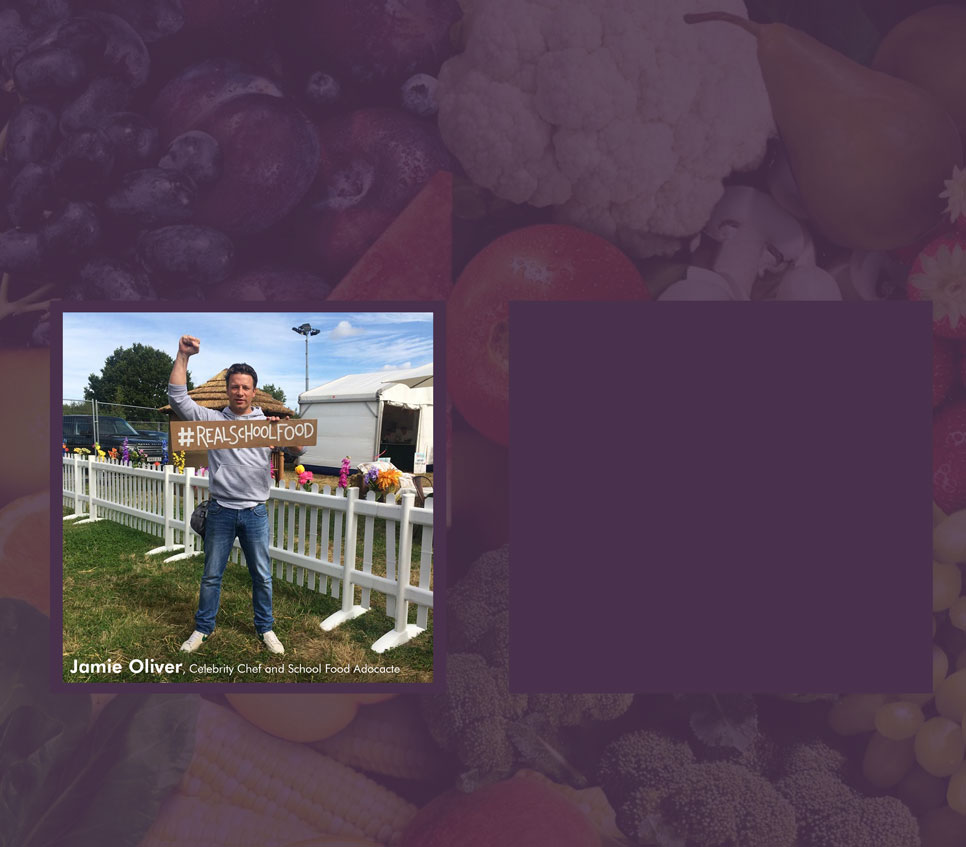
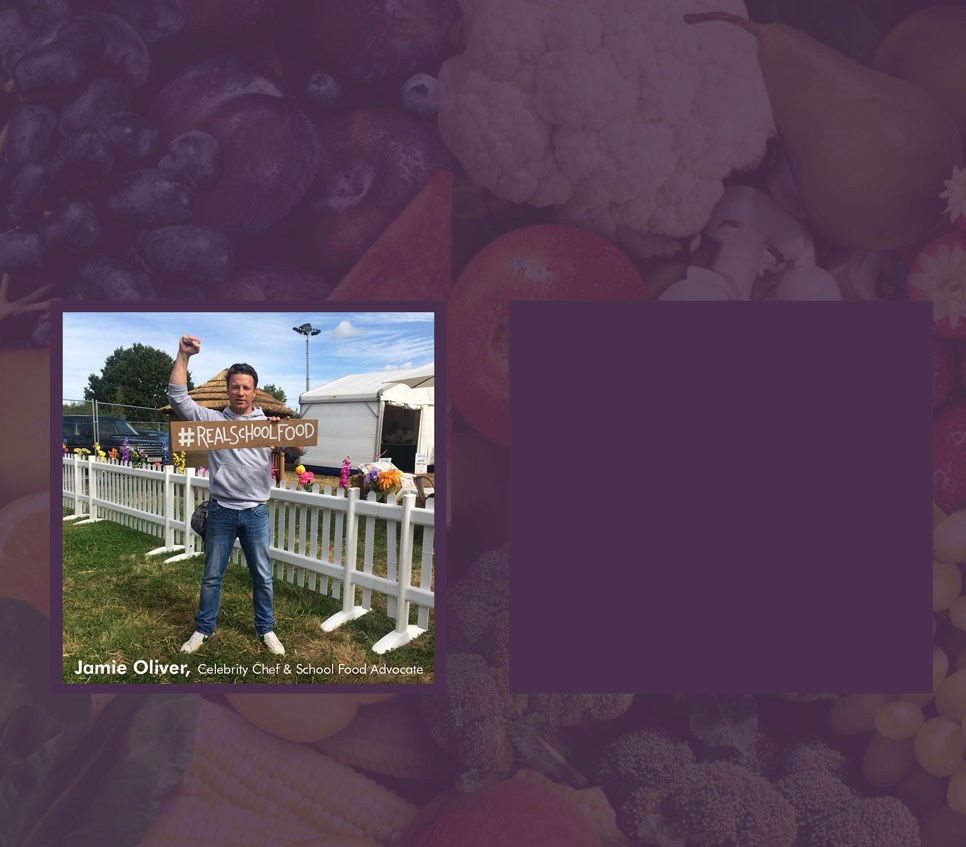
Added sponsor callout, changed instructions and their images, updated comments, fixed typo in wrap up image

diff --git a/index.html b/index.html
@@ -270,6 +270,11 @@
                 <img src="imgs/banner.jpg">
             </section><!-- end #title  -->
             
+            <section id="sponsor_callout" class="contentSection">
+                <h3>Your post = $1 towards #realschoolfood</h3>
+                <p>Thanks to Mamma Chia, every time you post using '#realschoolfood', $1 will be donated towards developing healthy school food recipes</p>
+            </section>
+            
             <section id="social" class="contentSection"> 
                 <div id="facebookFeed">
                     <div class="fb-album-container"></div>
@@ -342,17 +347,43 @@
                 
                 <h3> Get Involved</h3>
                 <div class="lines"></div>
-                <article class="instruction"> 
-                    <img src="imgs/step-1.png"> 
-                    <p>Make a Sign that says #RealSchoolFood and snap a selfie holding the sign </p>
+                <article class="instruction" id="step_1"> 
+                    <img src="imgs/step-1.jpg"> 
+                    <div>
+                        <p>Make a Sign that says #RealSchoolFood and snap a selfie holding the sign </p>
+                    </div>
                 </article>
-                <article class="instruction"> 
-                    <img src="imgs/step-2.png"> 
-                    <p>Choose your favorite school lunch from the grid below and download it from Facebook</p>
+                <article class="instruction" id="step_2"> 
+                    <img src="imgs/step-2.jpg"> 
+                    <div>
+                        <p>Post the photo to your social media timelines with the #realschoolfood hashtag and one of the below captions.</p>
+                            <span>** If posting to Facebook, make sure you make the post <a href="https://www.facebook.com/help/120939471321735">public</a> so that we can track and count it towards a matched donation. **</span>
+                    </div>
                 </article>
-                <article class="instruction"> 
-                    <img src="imgs/step-3.png">
-                    <p>Upload both pictures to Facebook with one of the captions below to share with your friends!</p>
+                <article class="instruction" id="step_3"> 
+                    <img src="imgs/step-3.jpg">
+                    <div>
+<!--
+                        <p>
+                            Tag us in your post! Our handles are:
+                            <br>
+                            Facebook: <a href="https://www.facebook.com/chefannfoundation">@Chef Ann Foundation</a>
+                            <br>
+                            Twitter: <a href="https://twitter.com/ChefAnnFnd/">@ChefAnnFnd</a>
+                            <br>
+                            Instagram: <a href="https://instagram.com/chefannfoundation/">@chefannfoundation</a>
+                        </p>
+-->
+                        <p>
+                            Tag us in your post! Our handles are:
+                            <br>
+                            Facebook: @Chef Ann Foundation
+                            <br>
+                            Twitter: @ChefAnnFnd
+                            <br>
+                            Instagram: @chefannfoundation
+                        </p>
+                    </div>
                 </article>
 
                 <article id="comments">
@@ -434,7 +465,7 @@
 <!--                <h3>You're ready to go!</h3>-->
                 <h3>Thanks for joining Jamie Oliver and the rest of our supporters in the fight for #RealSchoolFood</h3>
                 
-                <p>"Over 30 million kids in the US eat school lunch every day – and they're at school for more than ten years of their formative lives. That's a massive opportunity to have a really positive impact on their wellbeing, setting them up for healthier, happier lives. It's an absolute no-brainer for me that we should be feeding our kids at school with proper fresh food, cooked from scratch. Please join me in supporting Chef Ann Foundations #RealSchoolFood campaign and spreading this message."
+                <p>"Over 30 million kids in the US eat school lunch every day – and they're at school for more than ten years of their formative lives. That's a massive opportunity to have a really positive impact on their wellbeing, setting them up for healthier, happier lives. It's an absolute no-brainer for me that we should be feeding our kids at school with proper fresh food, cooked from scratch. Please join me in supporting Chef Ann Foundation's #RealSchoolFood campaign and spreading this message."
                 <br>
                 <span>- Jamie Oliver</span></p>
             </section> <!-- end #wrapUp -->

diff --git a/src/comments.js b/src/comments.js
@@ -1,4 +1,4 @@
-var comments = ["30.4 mill kids eat school lunch in the US, we need to serve them #realschoolfood. Join @ChefAnnFnd's campaign @ realschoolfood.org","It's time schools stopped serving highly processed, heat and serve food. I support #realschoolfood that's cooked from scratch. You can too at www.realschoolfood.org","I donated to @Chef Ann Foundation to help support more #realschoolfood like this in schools across the country. You can too at realschoolfood.org","Don’t you want your child eating this for school lunch? Join me and @Chef Ann Foundation in the fight for #realschoolfood. Realschoolfood.org","It’s time people were proud of what’s on their lunch tray. Here’s my  #realschoolfood tray, via @ChefAnnFnd. Choose yours at realschoolfood.org.","School lunches should get real. Here’s my idea of #realschoolfood, via @ChefAnnFnd what’s yours? Choose your tray at realschoolfood.org.","School lunch haters need a re-education, because this is what #realschoolfood looks like. Choose your tray at realschoolfood.org!","It’s time school lunches got better grades. #realschoolfood like this deserves an A+. Choose your tray at realschoolfood.org.","When #realschoolfood looks this good, why would anyone go back to old standards? Choose your tray at realschoolfood.org.","Wishing I could make food as good as #realschoolfood. Teach me, @ChefAnnFnd! Realschoolfood.org","When #realschoolfood looks this good… You’re gonna need a bigger tray. Choose your tray via @Chef Ann Foundation at realschoolfood.org","It’s time to stand up for our children’s health and serve them #realschoolfood like this. Choose your tray via @ChefAnnFnd at realschoolfood.org."]
+var comments = ["30.4 mill kids eat school lunch in the US, we need to serve them #realschoolfood. Join the campaign @ realschoolfood.org","It's time schools stopped serving highly processed, heat and serve food. I support #realschoolfood that's cooked from scratch. You can too at www.realschoolfood.org","I donated to Chef Ann Foundation to help support #realschoolfood in schools across the country. You can too at realschoolfood.org","Don’t you want your child eating this for school lunch? Join me and Chef Ann Foundation in the fight for #realschoolfood. Realschoolfood.org","School lunches should get real. Here’s my idea of #realschoolfood. Choose your tray at realschoolfood.org.","School lunch haters need a re-education, because this is what #realschoolfood looks like. Choose your tray at realschoolfood.org!","It’s time school lunches got better grades. #realschoolfood like this deserves an A+. Choose your tray at realschoolfood.org.","When #realschoolfood looks this good, why would anyone go back to old standards? Choose your tray at realschoolfood.org.","Show your support for #realschoolfood by posting a selfie like I did, and Mamma Chia will donate $1 towards developing healthy school food recipes!","It’s time to stand up for our children’s health and serve them #realschoolfood like this. Choose your tray via Chef Ann Foundation at realschoolfood.org."]
             
 document.getElementById("current-comment").innerHTML = comments[0];
 
@@ -26,8 +26,3 @@ function prevComment(){
         }
     }
 }
-
-
-
-
-

diff --git a/css/style.css b/css/style.css
@@ -1,11 +1,28 @@
 .contentSection{
     margin-bottom: 10px;
 }
-
-#title{
+#sponsor_callout{
+    background: #49304d;
+    color: #e7e7dd;
+    text-align: center;
     margin-bottom: 2px;
 }
-
+#sponsor_callout:nth-child(2){
+    padding: 30px;
+}
+#sponsor_callout h3{
+    color: #FFC627;
+    font-size: 46px;
+    font-weight: 600;
+}
+#sponsor_callout p{
+    padding-top: 15px;
+    width: 70%;
+    margin: 0 auto;
+    font-size: 20px;
+    line-height: 1.3;
+    font-weight: 500;
+}
 #social{
     display: inline-block;
     margin-bottom: 7px;
@@ -166,16 +183,32 @@
     display: inline-block;
     width: 300px;
 }
-#getInvolved .instruction p{
+#getInvolved .instruction div{
     display: inline-block;
-    width: 40%;
+    width: 50%;
     vertical-align:top;
-    padding: 30px;
+    padding: 0px;
     padding-top: 100px;
     margin-left: 75px;
+    
+}
+#getInvolved .instruction p{
     font-size: 30px;
     line-height: 1.3;
     font-weight: 600;
+}
+#getInvolved #step_2 div{
+    padding-top: 65px;
+}
+#getInvolved #step_3 div{
+    padding-top: 110px;
+}
+#getInvolved #step_3 p{
+    font-size: 26px;
+}
+#getInvolved .instruction span{
+    font-size: 20px;
+    line-height: 1.2;
 }
 
 #getInvolved #comments{
